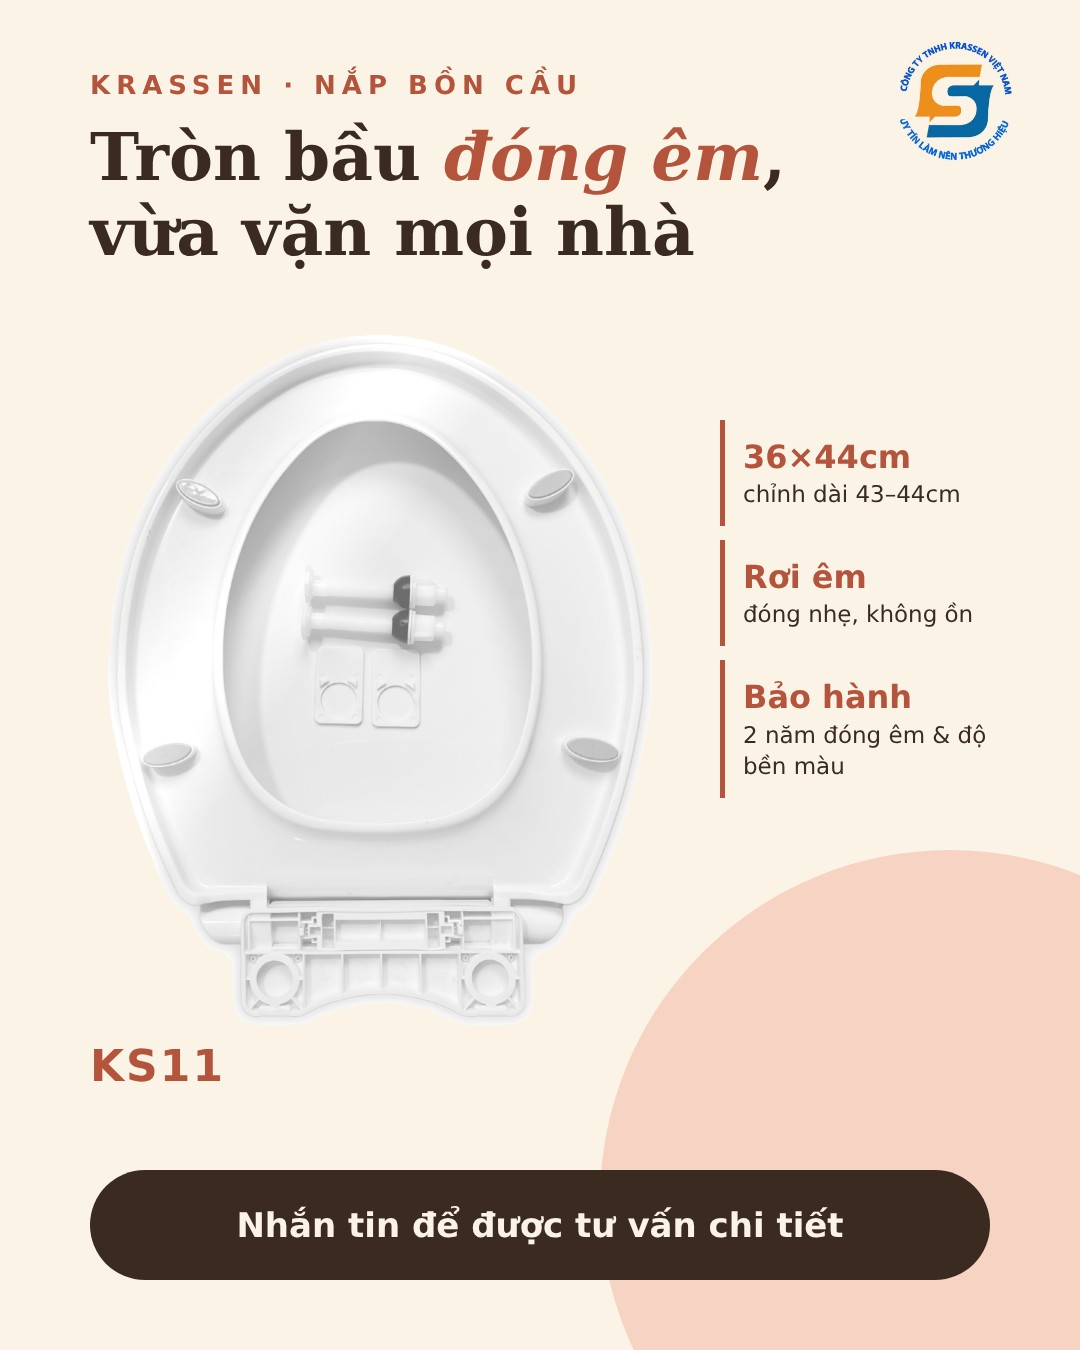
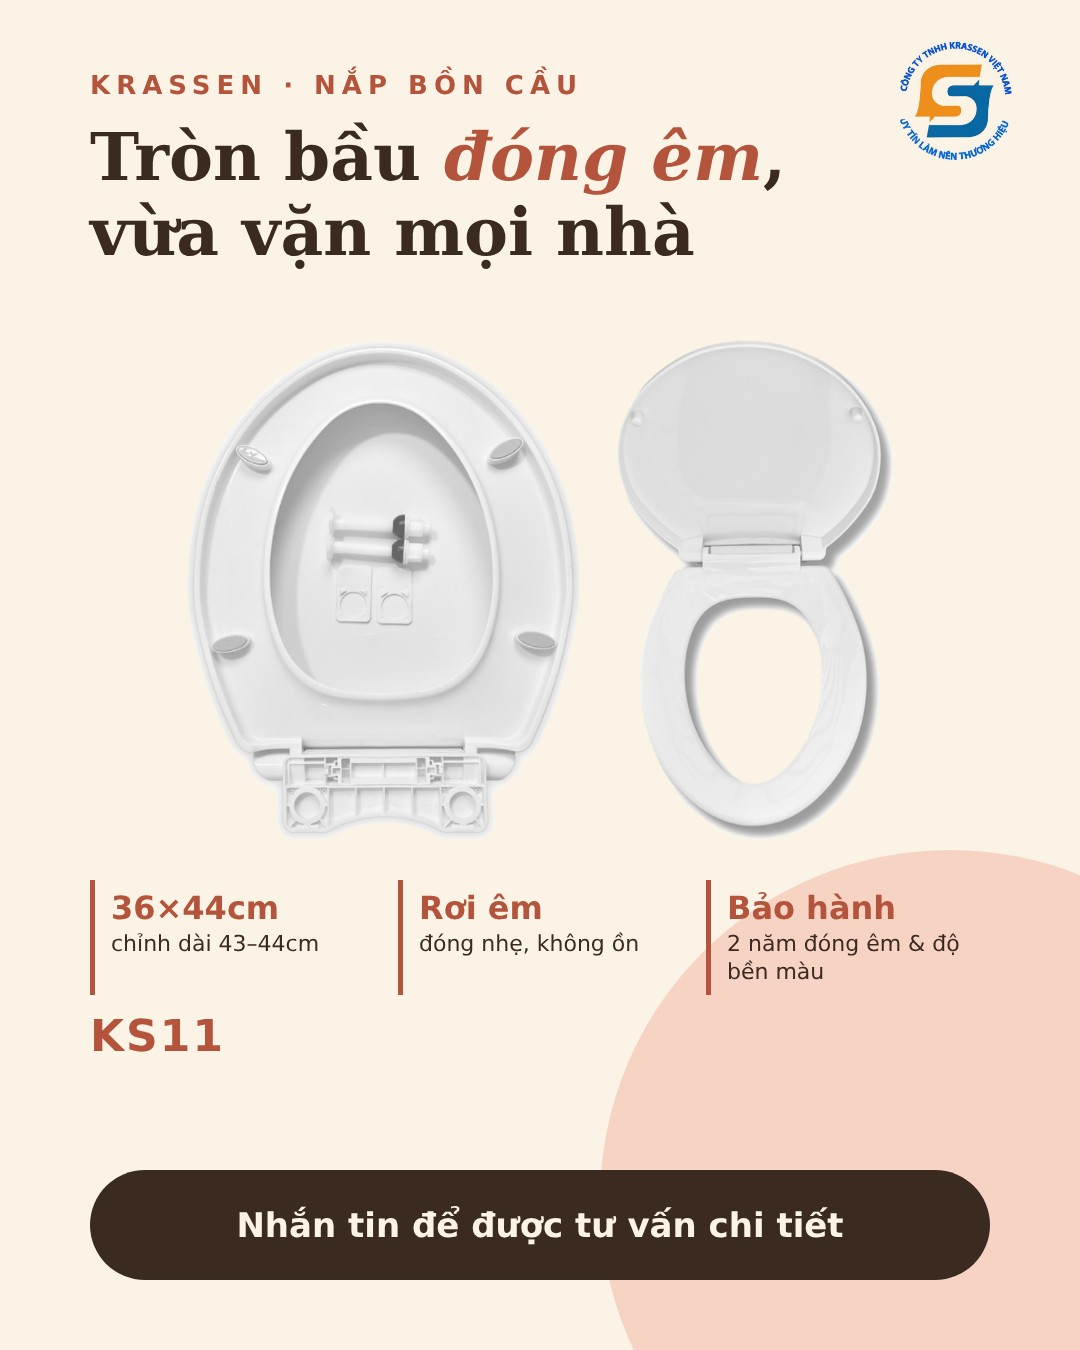
Anh 2 hinh san pham, lam trang bong nhe va deu; cap nhat tools
Claude-Session: https://claude.ai/code/session_013caNe4PvgU8QmB7DtUJ3vr

diff --git a/tools/gen.py b/tools/gen.py
@@ -20,7 +20,7 @@ def spec3(p,cls):
     return ''.join(f'<div><b>{a}</b>{b}</div>' for a,b in p['specs'])
 CSS="*{margin:0;padding:0;box-sizing:border-box}body{width:1080px;height:1350px;overflow:hidden;font-family:'DejaVu Sans',sans-serif;position:relative}img.logo{mix-blend-mode:multiply;position:absolute}"
 def html(p):
-    s=p['style']; img=f"img/{p['img']}_cut.png"; sp=spec3(p,'')
+    s=p['style']; img=f"img/{p['code']}_pair.png"; sp=spec3(p,'')
     if s==1:
         return f"""<html><head><meta charset=utf-8><style>{CSS}
 body{{background:linear-gradient(170deg,#f2fafd,#d7eef7);color:#0b3c5d}}
@@ -28,8 +28,8 @@ body{{background:linear-gradient(170deg,#f2fafd,#d7eef7);color:#0b3c5d}}
 .logo{{top:28px;left:60px;width:125px}}
 .code{{position:absolute;top:56px;right:70px;background:#0b3c5d;color:#fff;font-weight:800;font-size:30px;padding:10px 26px;border-radius:40px}}
 h1{{position:absolute;top:190px;left:70px;width:940px;font-size:64px;line-height:1.15;font-weight:800}}h1 span{{color:#e8463a}}
-.ph{{position:absolute;left:190px;top:385px;width:700px;height:640px;object-fit:contain}}
-.badge{{position:absolute;top:400px;right:60px;width:240px;height:240px;border-radius:50%;background:#e8463a;color:#fff;display:flex;flex-direction:column;align-items:center;justify-content:center;transform:rotate(8deg);text-align:center;font-size:25px;line-height:1.3}}.badge b{{font-size:32px}}
+.ph{{position:absolute;left:50px;top:440px;width:900px;height:580px;object-fit:contain}}
+.badge{{position:absolute;top:292px;right:32px;width:190px;height:190px;border-radius:50%;background:#e8463a;color:#fff;display:flex;flex-direction:column;align-items:center;justify-content:center;transform:rotate(8deg);text-align:center;font-size:20px;line-height:1.3}}.badge b{{font-size:27px}}
 .sp{{position:absolute;bottom:60px;left:70px;right:70px;display:flex;gap:18px}}
 .sp div{{flex:1;padding:14px 12px;text-align:center;font-size:23px;line-height:1.3;border-top:3px solid #1496a8}}.sp b{{display:block;font-size:34px;color:#e8463a;margin-bottom:4px}}
 .cta{{position:absolute;bottom:235px;left:70px;font-size:30px;color:#2d6a85}}</style></head><body>
@@ -44,10 +44,10 @@ body{{background:#fbf3e6;color:#3b2a20}}
 .logo{{top:36px;right:60px;width:130px}}
 .tag{{position:absolute;top:70px;left:90px;font-size:26px;letter-spacing:6px;color:#b5543c;font-weight:700}}
 h1{{position:absolute;top:120px;left:90px;width:900px;font-family:'DejaVu Serif',serif;font-size:66px;line-height:1.14}}h1 i{{color:#b5543c}}
-.ph{{position:absolute;left:60px;top:330px;width:640px;height:700px;object-fit:contain}}
-.sp{{position:absolute;right:60px;top:420px;width:300px}}
-.sp div{{padding:16px 0 16px 18px;margin-bottom:14px;border-left:5px solid #b5543c;font-size:23px;line-height:1.35}}.sp b{{display:block;font-size:32px;color:#b5543c}}
-.code{{position:absolute;left:90px;top:1040px;color:#b5543c;font-weight:800;font-size:44px;letter-spacing:2px}}
+.ph{{position:absolute;left:40px;top:330px;width:1000px;height:520px;object-fit:contain}}
+.sp{{position:absolute;left:90px;right:90px;top:880px;display:flex;gap:24px}}
+.sp div{{flex:1;padding:8px 0 8px 16px;border-left:5px solid #b5543c;font-size:22px;line-height:1.3}}.sp b{{display:block;font-size:32px;color:#b5543c}}
+.code{{position:absolute;left:90px;top:1010px;color:#b5543c;font-weight:800;font-size:44px;letter-spacing:2px}}
 .bar{{position:absolute;left:90px;bottom:70px;right:90px;height:110px;border-radius:55px;background:#3b2a20;color:#fbf3e6;display:flex;align-items:center;justify-content:center;font-size:34px;font-weight:700}}</style></head><body>
 <div class=blob></div><img class=logo src=img/logo.jpg><div class=tag>KRASSEN · NẮP BỒN CẦU</div><h1>{p['title']}</h1>
 <img class=ph src={img}><div class=code>{p['code']}</div><div class=sp>{sp}</div><div class=bar>{CTA}</div></body></html>"""
@@ -57,8 +57,8 @@ body{{background:radial-gradient(circle at 50% 40%,#fffdf7,#f4e8c8);color:#3a2f1
 .logo{{top:30px;left:455px;width:170px}}
 h1{{position:absolute;top:200px;width:100%;font-family:'DejaVu Serif',serif;font-size:62px;line-height:1.2}}h1 span{{color:#a8802c}}
 .line{{position:absolute;top:432px;left:440px;width:200px;height:3px;background:#a8802c}}
-.ph{{position:absolute;left:190px;top:450px;width:700px;height:620px;object-fit:contain}}
-.code{{position:absolute;top:470px;right:90px;color:#a8802c;font-weight:800;font-size:34px;letter-spacing:2px}}
+.ph{{position:absolute;left:40px;top:470px;width:1000px;height:590px;object-fit:contain}}
+.code{{position:absolute;top:385px;width:100%;color:#a8802c;font-weight:800;font-size:34px;letter-spacing:4px}}
 .sp{{position:absolute;top:1105px;width:100%;display:flex;justify-content:center;gap:60px;font-size:25px;color:#5a4a22}}.sp b{{display:block;font-size:34px;color:#a8802c;margin-bottom:4px}}
 .bot{{position:absolute;bottom:70px;width:100%;font-size:34px;letter-spacing:2px;color:#3a2f14;font-weight:700}}</style></head><body>
 <img class=logo src=img/logo.jpg><h1>{p['title']}</h1><div class=line></div><img class=ph src={img}><div class=code>{p['code']}</div>
@@ -70,7 +70,7 @@ body{{background:linear-gradient(180deg,#f0faf5,#d6f0e3);color:#12453a}}
 .logo{{top:30px;right:60px;width:125px}}
 .tag{{position:absolute;top:62px;left:70px;font-size:26px;letter-spacing:7px;color:#1f9d75;font-weight:700}}
 h1{{position:absolute;top:130px;left:70px;width:900px;font-size:60px;line-height:1.15;font-weight:800}}h1 span{{color:#1f9d75}}
-.ph{{position:absolute;left:150px;top:340px;width:780px;height:670px;object-fit:contain}}
+.ph{{position:absolute;left:40px;top:350px;width:1000px;height:650px;object-fit:contain}}
 .code{{position:absolute;left:70px;top:1030px;font-size:46px;font-weight:800;color:#1f9d75;letter-spacing:2px}}
 .ask{{position:absolute;right:70px;top:1025px;text-align:right;font-size:30px;font-weight:700;color:#e0572f;line-height:1.25}}
 .sp{{position:absolute;left:70px;right:70px;bottom:60px;display:flex;justify-content:space-between;border-top:3px solid #1f9d75;padding-top:20px}}
@@ -83,7 +83,7 @@ body{{background:linear-gradient(160deg,#faf5fb,#e6dff3);color:#3a2f5c;text-alig
 .logo{{top:30px;left:70px;width:125px}}
 .code{{position:absolute;top:60px;right:70px;font-size:36px;font-weight:800;color:#7a5cc7;letter-spacing:2px}}
 h1{{position:absolute;top:190px;width:100%;font-family:'DejaVu Serif',serif;font-size:60px;line-height:1.2}}h1 i{{color:#7a5cc7}}
-.ph{{position:absolute;left:90px;top:400px;width:900px;height:560px;object-fit:contain}}
+.ph{{position:absolute;left:40px;top:400px;width:1000px;height:560px;object-fit:contain}}
 .ask{{position:absolute;top:985px;width:100%;font-size:40px;font-weight:800;color:#7a5cc7}}
 .sep{{position:absolute;bottom:170px;left:70px;right:70px;height:3px;background:#7a5cc7;opacity:.5}}
 .sp{{position:absolute;bottom:60px;left:70px;right:70px;display:flex;justify-content:space-between}}

diff --git a/tools/compose.py b/tools/compose.py
@@ -1,0 +1,36 @@
+import os, numpy as np
+from PIL import Image
+from scipy import ndimage as ndi
+base='/mnt/user-data/uploads/SP NAP DRIVE'
+def cut(path,rot=0):
+    im=Image.open(path).convert('RGB')
+    if rot: im=im.rotate(-rot,expand=True)
+    im.thumbnail((1100,1100))
+    a=np.asarray(im).astype(float); mn=a.min(axis=2)
+    nw=mn>=250; lab,k=ndi.label(nw); sizes=ndi.sum(nw,lab,range(1,k+1))
+    bg=np.isin(lab,[i+1 for i,s in enumerate(sizes) if s>4000]); fg=ndi.binary_opening(~bg,iterations=2)
+    l2,k2=ndi.label(fg); s2=ndi.sum(fg,l2,range(1,k2+1)); fg=l2==(1+int(np.argmax(s2)))
+    fg=ndi.binary_erosion(fg,iterations=5)
+    alpha=ndi.gaussian_filter(fg.astype(float),1.0)
+    g=a.mean(axis=2)/255
+    # lam deu: bu phan sang toi dien rong (low-frequency) trong vung san pham, giu chi tiet
+    m=ndi.gaussian_filter(fg.astype(float),60)+1e-6
+    low=ndi.gaussian_filter(g*fg,60)/m
+    target=(g*fg).sum()/max(fg.sum(),1)
+    g2=np.clip(g+0.6*(target-low),0,1)
+    out=np.clip(g2**0.72,0,1)*255
+    ys,xs=np.where(fg)
+    rgba=np.dstack([out]*3+[alpha*255]).astype(np.uint8)[max(0,ys.min()-6):ys.max()+7,max(0,xs.min()-6):xs.max()+7]
+    return Image.fromarray(rgba,'RGBA')
+PAIRS={'KS500RK':[('KS500RK/10',0),('KS500RK/43',0)],'KS500LK':[('KS500LK/25',0),('KS500RK/55',0)],
+'KS11':[('KS11/25',0),('KS11/10',0)],'KS09':[('KS09/11',90),('KS09/INAX_2',0)],'KS609TC':[('KS609TC/2',0),('KS609TC/22',0)],
+'KS15U':[('KS15U/9',0),('KS15U/19',0)],'KS005':[('KS005/4',0),('KS005/8',0)],'KS21':[('KS21/7',0),('KS21/29',0)],
+'KS504C':[('KS504C/2',0),('KS504C/4',0)],'KS45':[('KS45/4',0),('KS45/8',0)],'KS602K':[('KS602K/8',0),('KS602K/11',0)],'KS608U':[('KS608U/4',0),('KS608U/17',0)]}
+if __name__=='__main__':
+    for code,items in PAIRS.items():
+        ims=[cut(f'{base}/{f}.png',rot) for f,rot in items]
+        H=620; ims=[im.resize((max(1,int(im.width*H/im.height)),H)) for im in ims]
+        gap=40; W=sum(i.width for i in ims)+gap*(len(ims)-1)+20
+        cv=Image.new('RGBA',(W,H+20),(0,0,0,0)); x=10
+        for im in ims: cv.alpha_composite(im,(x,10)); x+=im.width+gap
+        cv.save(f'img/{code}_pair.png'); print(code,cv.size)

diff --git a/tools/README.md b/tools/README.md
@@ -4,3 +4,7 @@
   Can thu muc img/ chua <ten>_cut.png (tu cutout.py) va img/logo.jpg (copy tu tools/logo.jpg).
 - captions.py: caption 12 ma (khong gia).
 Anh nguon: thu muc SP NAP DRIVE tren may Mac cua nguoi dung. Danh sach dang bai: ../manifest.json.
+
+## Ban moi (29/10/2026)
+- Moi bai co 2 anh san pham (mat trong + mat mo nap): compose.py tao img/<MA>_pair.png tu danh sach PAIRS (ma, anh, goc xoay).
+- Lam trang bong nhe va deu: bu phan sang toi dien rong (gaussian sigma 60, he so 0.6) roi gamma 0.72; khong con vet sang cheo; khong do bong.
